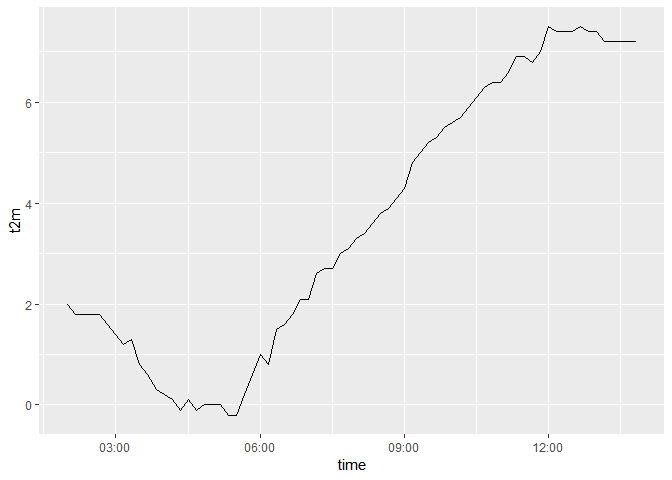
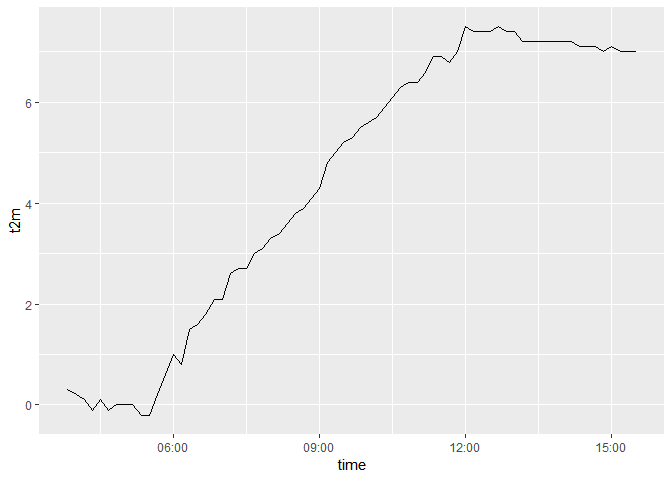
Expand README

diff --git a/README.md b/README.md
@@ -14,9 +14,10 @@ Institute](https://en.ilmatieteenlaitos.fi). Key features include:
   - Download machine readable XML weather data from the API
   - Parse the XML data to a regular data frame
 
-FMI provides data in several different formats in their API, implemented
-using OGC Web Feature Service (WFS). Currently the only format supported
-by `fmir` is the “simple” format.
+FMI provides data in [several different
+formats](https://en.ilmatieteenlaitos.fi/open-data-manual-fmi-wfs-services)
+in their API, implemented using OGC Web Feature Service (WFS). Currently
+the only format supported by `fmir` is the “simple” format.
 
 In order to access the download services of the FMI open data API,
 you’ll need to obtain an API key by registering with the Finnish
@@ -51,7 +52,9 @@ fmi_set_key("insert-your-apikey-here")
 ```
 
 Once your key is set, you can construct queries to the API with
-`fmi_query()`and then execute the queries with `fmi_data()`:
+`fmi_query()`and then execute the queries with `fmi_data()`. A default
+query with only a `place` parameter will return observations with a
+10-minute interval for the past 24 hours:
 
 ``` r
 # generate a query url with fmi_query
@@ -63,12 +66,12 @@ head(weather)
 #> # A tibble: 6 x 13
 #>   location   time                p_sea  r_1h    rh ri_10min snow_aws   t2m
 #>   <chr>      <dttm>              <dbl> <dbl> <dbl>    <dbl>    <dbl> <dbl>
-#> 1 65.00639 ~ 2018-09-29 02:00:00 1012.   NaN    92      NaN      NaN   2  
-#> 2 65.00639 ~ 2018-09-29 02:10:00 1012.   NaN    91      NaN      NaN   1.8
-#> 3 65.00639 ~ 2018-09-29 02:20:00 1012.   NaN    90      NaN      NaN   1.8
-#> 4 65.00639 ~ 2018-09-29 02:30:00 1012.   NaN    91      NaN      NaN   1.8
-#> 5 65.00639 ~ 2018-09-29 02:40:00 1012.   NaN    92      NaN      NaN   1.8
-#> 6 65.00639 ~ 2018-09-29 02:50:00 1012.   NaN    92      NaN      NaN   1.6
+#> 1 65.00639 ~ 2018-09-29 03:50:00 1012.   NaN    95      NaN      NaN   0.3
+#> 2 65.00639 ~ 2018-09-29 04:00:00 1012.   NaN    95      NaN      NaN   0.2
+#> 3 65.00639 ~ 2018-09-29 04:10:00 1011.   NaN    95      NaN      NaN   0.1
+#> 4 65.00639 ~ 2018-09-29 04:20:00 1011.   NaN    95      NaN      NaN  -0.1
+#> 5 65.00639 ~ 2018-09-29 04:30:00 1011.   NaN    96      NaN      NaN   0.1
+#> 6 65.00639 ~ 2018-09-29 04:40:00 1011.   NaN    96      NaN      NaN  -0.1
 #> # ... with 5 more variables: td <dbl>, vis <dbl>, wd_10min <dbl>,
 #> #   wg_10min <dbl>, ws_10min <dbl>
 
